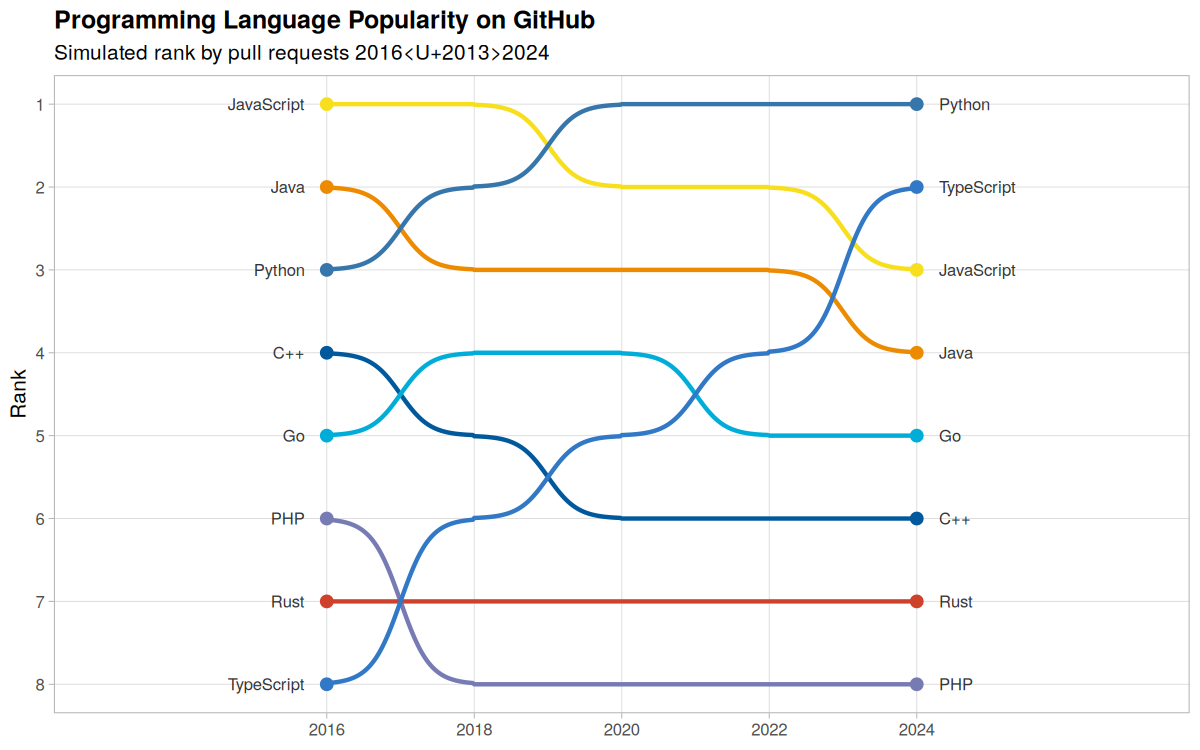
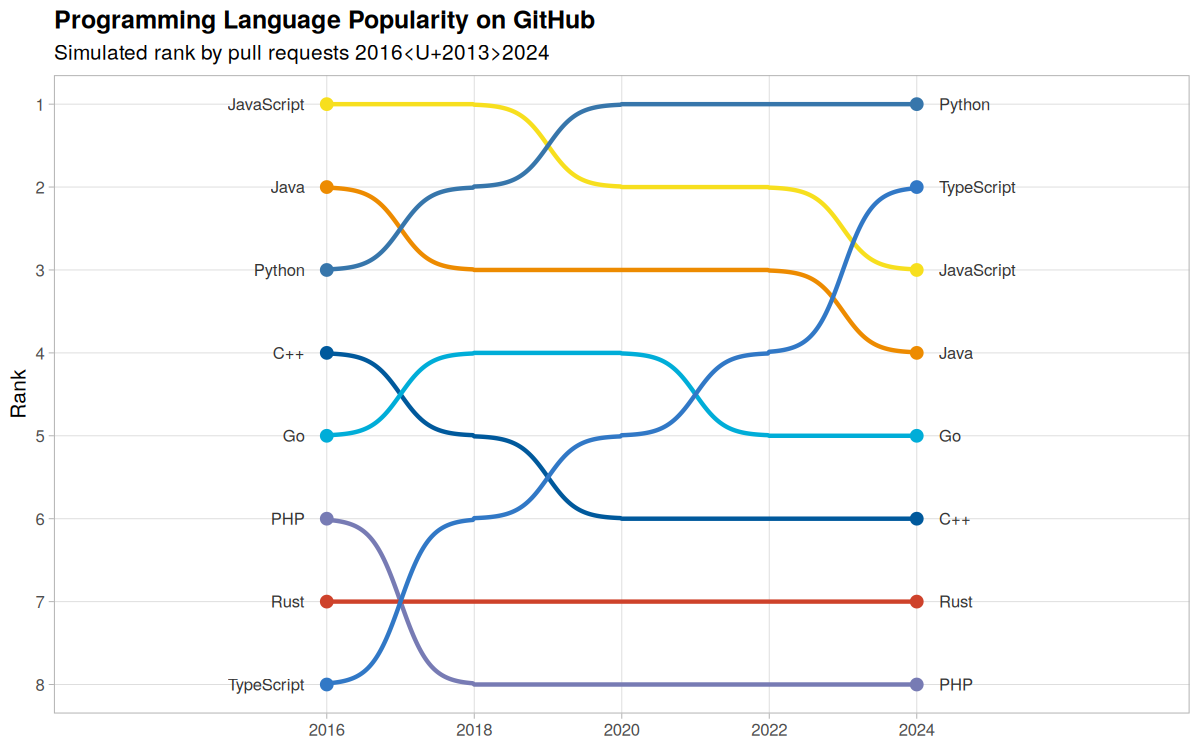
Hero figure now knitted from README.Rmd, not static PNG
Reputation chart chunk changed from eval=FALSE to echo=FALSE evaluated.
Code shown via ref.label in collapsible details block.
Deleted static README-reputation.png (556KB) — replaced by
chunk-generated README-reputation-1.png (311KB).

All 9 figures in README.md are now generated by rmarkdown::render().
Zero static PNGs remain.

diff --git a/README.md b/README.md
@@ -12,7 +12,7 @@ experimental](https://img.shields.io/badge/lifecycle-experimental-orange.svg)](h
 
 Sigmoid-curved filled ribbons for rank comparison charts in ggplot2.
 
-<a href="https://raw.githubusercontent.com/sondreskarsten/ggbumpribbon/main/man/figures/README-reputation.png"><img src="man/figures/README-reputation.png" width="55%" /></a>
+<img src="man/figures/README-reputation-1.png" alt="" width="100%" />
 
 <details>
 <summary>
